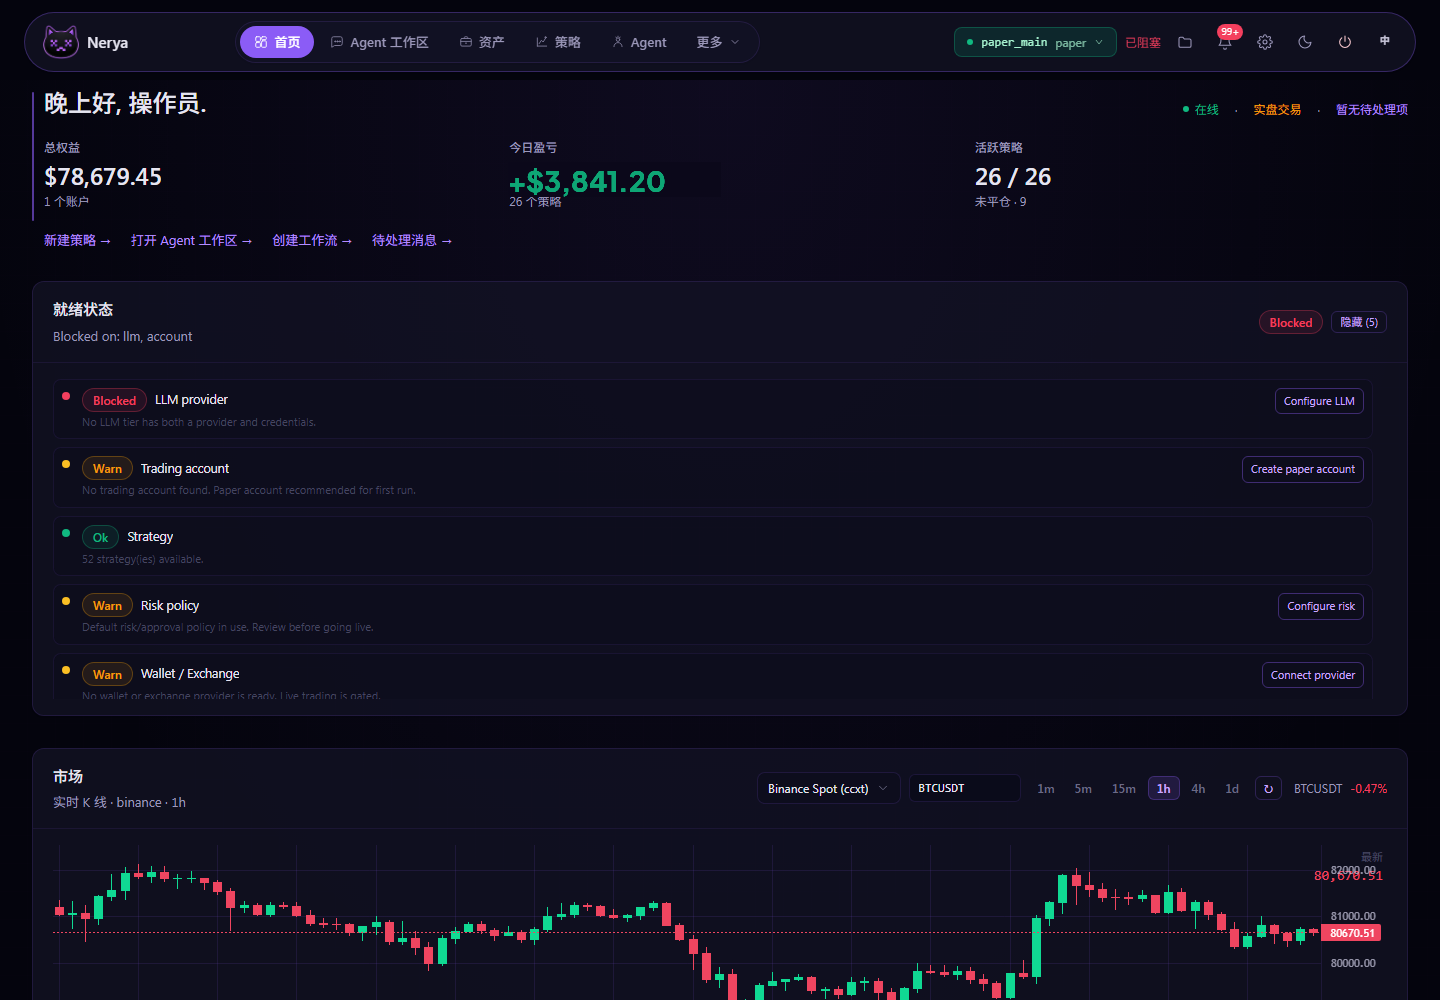
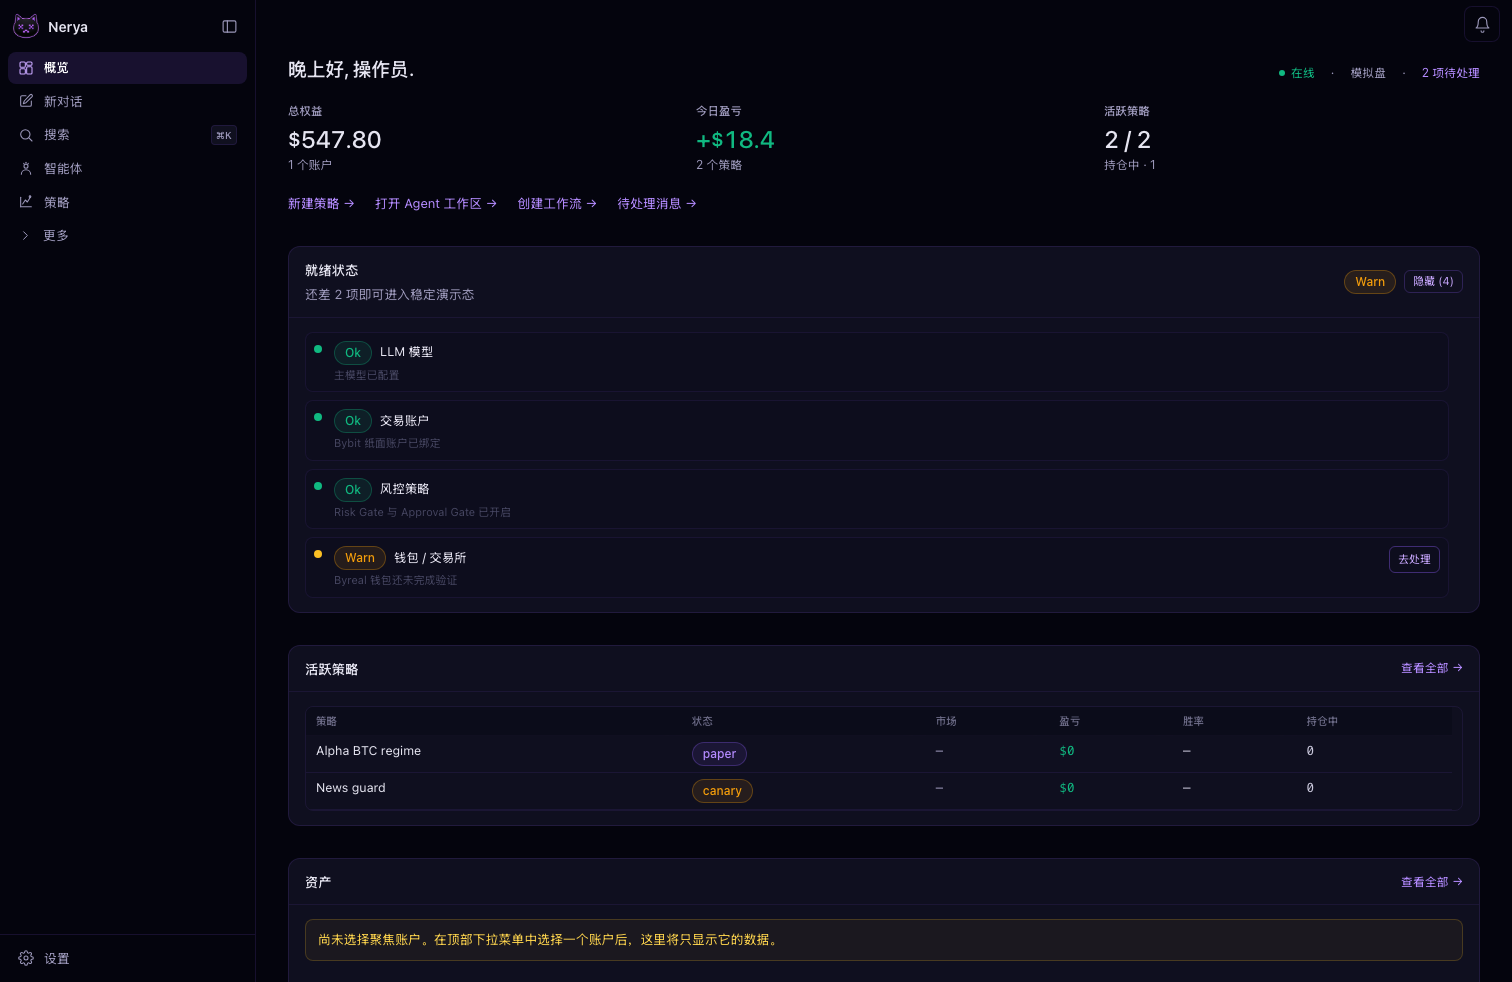
docs(readme): remove stale screenshot references

diff --git a/README.md b/README.md
@@ -115,85 +115,6 @@ review strategy sessions, and open evolution proposals. Per-message controls:
 Starter prompts ship with the workspace: build a monitoring script, create a
 subagent, schedule a heartbeat, run a postmortem, and draft a strategy package.
 
-<br/>
-
-### Setup wizard
-
-<img src="branding/screenshots/dashboard-setup.png" alt="Setup wizard" />
-
-Same wizard from CLI (`nerya setup --tui`) and the dashboard (`/setup`). Seven
-domains: Password, LLM model, Gateway, Memory, Browser, Trading account, Web search.
-Only the LLM model needs your input. Hit Enter through every other prompt and you
-get a working install.
-
-<br/>
-
-<table>
-<tr>
-<td width="50%" valign="top">
-
-**Skills · `SKILL.md` is the only definition**
-
-<img src="branding/screenshots/dashboard-skills.png" alt="Skills" />
-
-74 loaded skills. 2 editable in the workspace, 72 built-in, 0 staged. Inline `SKILL.md`
-reader, filter by workspace / built-in / installed / editable, and an "Add from repo"
-installer that takes GitHub URLs, local folders, or archives.
-
-</td>
-<td width="50%" valign="top">
-
-**Memory · typed backends, notebook, evidence vault**
-
-<img src="branding/screenshots/dashboard-memory.png" alt="Memory" />
-
-The built-in notebook stays on. Strategy reviews, mistakes, market regimes, and
-skill learnings feed the next evolution proposal. Optional plug-ins: `memsearch`
-(Milvus + embedding model) or `agentmemory` (external service).
-
-</td>
-</tr>
-<tr>
-<td width="50%" valign="top">
-
-**Portfolio · exchanges and wallets, one ledger**
-
-<img src="branding/screenshots/dashboard-portfolio.png" alt="Portfolio" />
-
-CEX accounts and on-chain wallets share the same virtual ledger. Balances, exposure,
-recent fills, reconciliation status, equity curve. All denominated in your reporting
-currency, even when the underlying venues report in different stablecoins.
-
-</td>
-<td width="50%" valign="top">
-
-**Agent Team · durable, role-typed, gated**
-
-<img src="branding/screenshots/dashboard-agents.png" alt="Agent Team" />
-
-The strategy lead coordinates typed members: market, on-chain, news, technical,
-risk, execution, and portfolio. Each role has a skill allowlist and denylist. The
-team works through a task board, mailbox, shared blackboard, leader synthesis, and
-approval gates.
-
-</td>
-</tr>
-<tr>
-<td colspan="2" valign="top">
-
-**Universal gateway · Telegram, Discord, Slack, Feishu, WeCom, DingTalk, WhatsApp, Webhook**
-
-<img src="branding/screenshots/dashboard-gateway.png" alt="Gateway" />
-
-One contract per platform: channel ID, enabled toggle, trade-notification fan-out,
-auto-reply, topic filters, access control, setup checklist. Plaintext tokens get
-rewritten as `vault://` refs the moment you submit them. The token never sits in the
-channel config.
-
-</td>
-</tr>
-</table>
-
 ### Self-evolution review desk
 
 <img src="branding/screenshots/dashboard-self-evolution.png" alt="Self-evolution replay and proposal review" />
@@ -202,6 +123,15 @@ Replay the entire evolution run in one place: trigger, role prompt, structured
 input, model call, proposed file change, validation preview, optimizer scoring,
 and lineage context. This is the operator-facing review surface before any
 proposal is approved or promoted.
+
+### Other dashboard surfaces
+
+- `setup` reuses the same onboarding flow as `nerya setup --tui`: password, LLM, gateway, memory, browser, trading account, and web search.
+- `skills` treats `SKILL.md` as the definition: browse built-ins, workspace overrides, installed skills, and repo imports from one place.
+- `memory` keeps typed notebook entries, evidence, profile state, and optional backends such as `memsearch` or `agentmemory`.
+- `portfolio` merges exchange accounts and wallets into one reporting ledger with balances, exposure, reconciliation, and equity history.
+- `agents` manages durable role-typed subagents with per-role skill allowlists, prompt overrides, and persistent workspace personas.
+- `gateway` centralises Telegram, Discord, Slack, Feishu, WeCom, DingTalk, WhatsApp, and webhook delivery with `vault://` secret refs.
 
 > The dashboard ships under `dashboard/` (Next.js 14, App Router, `:18380`). Run it
 > locally with the one-liner below. No cloud account, no telemetry phone-home.

diff --git a/README.zh-CN.md b/README.zh-CN.md
@@ -76,82 +76,21 @@
 
 工作台自带 4 个起步提示词：写监控脚本、建子智能体、挂心跳、跑复盘。点一下就开跑。
 
-<br/>
-
-### Setup 向导
-
-<img src="branding/screenshots/dashboard-setup-zh.png" alt="Setup wizard" />
-
-同一份向导，CLI 是 `nerya setup --tui`，Dashboard 是 `/setup`。七步：密码、LLM、网关、记忆、
-浏览器、交易账户、网页搜索。除了 LLM 那一步要填 key，其它一路回车也能装出一个能跑的环境。
-
-<br/>
-
-<table>
-<tr>
-<td width="50%" valign="top">
-
-**Skills · `SKILL.md` 就是定义本身**
-
-<img src="branding/screenshots/dashboard-skills-zh.png" alt="Skills" />
-
-74 个技能在线。2 个能在工作区直接改，72 个内置，0 个待装。内嵌 `SKILL.md` 阅读器，按工作区/
-内置/已安装/可编辑过滤，再加一个直接吃 GitHub URL、本地目录或压缩包的「从仓库添加」装载器。
-
-</td>
-<td width="50%" valign="top">
-
-**Memory · 多后端、笔记本、证据库**
-
-<img src="branding/screenshots/dashboard-memory-zh.png" alt="Memory" />
-
-笔记本默认常驻。想要更强的检索可以挂 `memsearch`（Milvus + 向量模型）或外部 `agentmemory`。
-Tab 分页：笔记本、活动日志、写入规则、Provider、证据、操作员画像。
-
-</td>
-</tr>
-<tr>
-<td width="50%" valign="top">
-
-**Portfolio · 交易所和钱包共用一份账本**
-
-<img src="branding/screenshots/dashboard-portfolio-zh.png" alt="Portfolio" />
-
-中心化交易所账户和链上钱包共用一份虚拟账本。余额、敞口、最近成交、对账状态、净值曲线，
-按你设的计价币种统一显示——底层报的是 USDT 还是 USDC 都能合并。
-
-</td>
-<td width="50%" valign="top">
-
-**Agent Team · 持久化、有角色、有审批门**
-
-<img src="branding/screenshots/dashboard-agents-zh.png" alt="Agent Team" />
-
-团队是一份持久化配置，不是几个 LLM 并行调一下完事。角色分明（队长、分析师、风控批评家、
-执行者），每个角色独立的技能黑/白名单，带依赖的任务板，邮箱，共享黑板，队长综合，审批门。
-
-</td>
-</tr>
-<tr>
-<td colspan="2" valign="top">
-
-**统一网关 · Telegram、Discord、Slack、飞书、企业微信、钉钉、WhatsApp、Webhook**
-
-<img src="branding/screenshots/dashboard-gateway-zh.png" alt="Gateway" />
-
-每个平台一份契约：频道 ID、启用开关、交易通知扇出、自动回复、话题过滤、权限控制、配置清单。
-你提交明文 Token 的那一秒，立刻被改写成 `vault://` 引用——Token 永远不会留在频道配置里。
-
-</td>
-</tr>
-</table>
-
 ### 自我进化审阅台
 
 <img src="branding/screenshots/dashboard-self-evolution-zh.png" alt="Self-evolution replay and proposal review" />
 
 把一次进化 run 的全过程摊开给操作员看：触发、角色提示词、结构化输入、模型调用、提议改动、
 验证预览、候选评分、lineage 上下文，全都在一个页面里审。任何提案在被批准或晋升前，都先过这道面板。
+
+### 其他 Dashboard 页面
+
+- `setup` 复用 `nerya setup --tui` 的同一套引导：密码、LLM、网关、记忆、浏览器、交易账户、网页搜索。
+- `skills` 以 `SKILL.md` 为唯一技能定义入口，统一浏览内置技能、工作区覆盖、已安装技能和仓库导入。
+- `memory` 管 notebook、证据、画像和多后端配置，想接 `memsearch` 或外部 `agentmemory` 也都在这里。
+- `portfolio` 把交易所账户和钱包合到一份报表账本里，看余额、敞口、对账状态和净值历史。
+- `agents` 管持久化子智能体：角色提示词、技能白名单/黑名单、工作区 persona 都在一处维护。
+- `gateway` 把 Telegram、Discord、Slack、飞书、企业微信、钉钉、WhatsApp 和 webhook 的投递统一收口，密钥一律改写成 `vault://` 引用。
 
 > Dashboard 就在 `dashboard/`（Next.js 14、App Router，`:18380`）。下面一行命令跑起来，
 > 没云账号，没遥测，全程本地。
